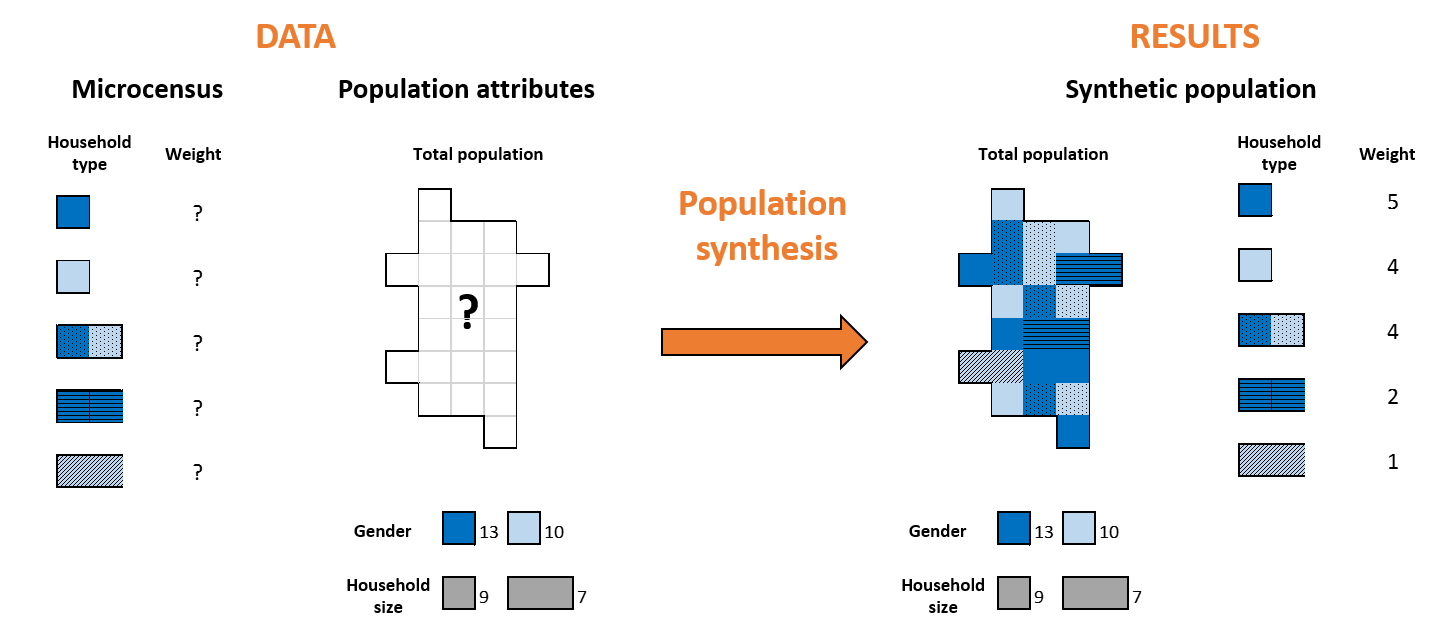
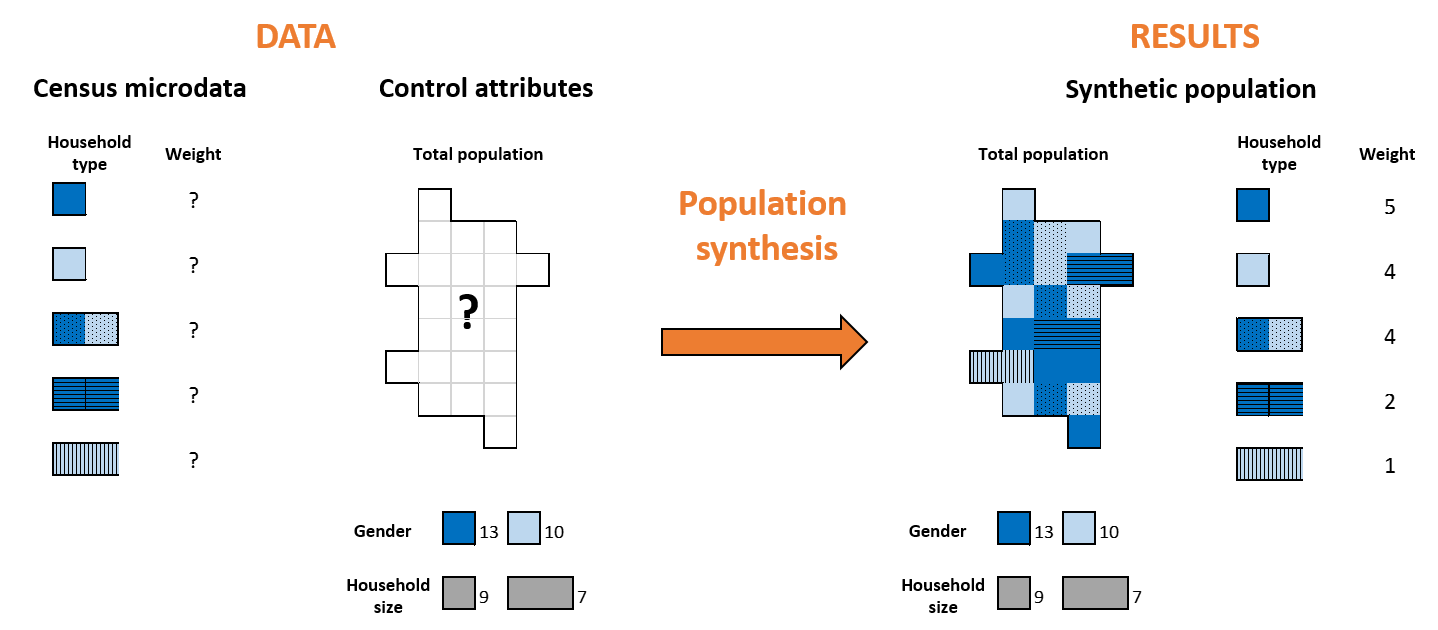
Added generation of synthetic population

diff --git a/synPopDE.html b/synPopDE.html
@@ -65,8 +65,9 @@
 				  <p> <i> A synthetic population generator for the Metropolitan Area of Munich is currently under development. Using census microdata, municipality-level and county-(called Kreis)-level data, a process called Iterative Proportional Updating is used to generate a synthetic population. A detailed description of the approach is currently under development. </i>
                   </p>
                   <p>Synthetic populations are used in transportation modeling  when individual records are not available due to privacy data, lack of resolution or some attributes. Travel behavior of synthesized individuals is  simulated to evaluate, for example, the effect of building a new shopping mall on the transport network.</p>
-                  <p>The objective of population synthesis is to generate a population that matches certain attributes of the actual population based on a sample of households. Attributes can be at the household level, such as household size or number of autos, or at the person level, such as gender, age or employment status. The optimization procedure consists on obtaining how representative is each one of the households inside the population, given a set of attributes' constraints. </p>
+                  <p>The objective of population synthesis is to generate a population that matches certain attributes of the total population based on a sample of households. Control attributes can be at the household level, such as household size or number of autos, or at the person level, such as gender, age or employment status. The optimization procedure consists on obtaining how representative is each one of the households of the sample to the total population, given a set of control attributes that act as constraints. </p>
                   <img src="images/populationSynthesis.png" width="660" height="296" alt=""/>
+                 
 
 <p>Population synthesis has three phases: </p>
                   <ol>
@@ -78,83 +79,108 @@
 				  <h2>Data preparation</h2>
                   
                   <p>In Germany, statistical information of the population is available online at the GENESIS-Online database. Data are aggregated at the municipality level (Gemeinden), county level (Landkreise), state level (Länder) or Nationwide (Bund). They include information on population, educacion, housing and environment, economic sectors, public finances or economic accounts. </p>
-                  <p> For household structures, we can rely on microcensus from Household Travel Surveys or Household Census. In Germany, Household Census contains more detail than Household Travel Surveys on how households are structured. The number of records is a 5% sample of the total population, and due to privacy, they cannot be linked to the exact location of the household. The minimum resolution is statewide. Household Census microdata can be purchased from the State Statistical Office. They include household size, household composition or age, gender and employment status of household members.</p>
+                  <p> For household structures, we can rely on microdata from Household Travel Surveys or Household Census. In Germany, Household Census contains more detail than Household Travel Surveys on how households are structured. The number of records is a 5% sample of the total population, and due to privacy, they can only be linked to the state on which the household is located. Household Census microdata can be purchased from the State Statistical Office. They include household size, household composition or age, gender and employment status of household members.</p>
                   <p> After data are collected, we decide which attributes are going to be matched, or control attributes. Control attributes can be household type or person type. Usual household type attributes are household size, number of autos the household owns, number of workers in the household or household income. Person type attributes refer to the individuals on the household and usually include age, gender, ethnicity or working status.  </p>
                   
                   
                   <img src="images/syntheticPopulation_attributes.png" width="500" height="331" alt=""/>
                   <p>
                   Control attributes must be included on both databases and have transferable categories, which can limit the number of attributes to match. In some cases, total population attributes are not aggregated at the same resolution. Based on the available data, we use 24 control attributes at the municipality level and 5 control attributes at the county level. </p>
-                  <p> For the optimization procedure, we need to generate the frequency matrix. The frequency matrix shows the household type and the frequency of different person types within each household for the sample. The dimension of the matrix is N x M, where N is the number of households in the microrecords and M is the number of control attributes (household and person type). A 0 or 1 is assigned to household types control attributes and the persons in the household that has that attribute are assigned to person types control attributes.</p>
+                  <p> For the optimization procedure, we need to generate the frequency matrix. The frequency matrix shows the household type and the frequency of different person types within each household for the sample. The dimension of the matrix is N x M, where N is the number of households in the microdata and M is the number of control attributes (household and person type). A 0 or 1 is assigned to household types control attributes and the persons in the household that has that attribute are assigned to person types control attributes.</p>
                   
                   <p>&nbsp;</p>                 
                   <h2>Optimization procedure</h2>
                   <p>The synthetic population is generated using Iterative Proportional Updating (IPU). This procedure was developed by Ye et al. (2009) and it was expanded to accomodate controls at multiple geographic resolutions by Konduri et al. (2016).  </p>
 				  <p>The IPU procedure calculates a set of weights of each one of the microdata records in an iterative approach. It is capable of closely matching household-level and person-level marginal distributions at the same time; and it can accommodate control attributes defined at municipality-level or county-level simultaneously. This feature is specially important for our case study, as households by size are only available at the county-level. </p>
-                  <p>The IPU procedure is shown in Figure 1. It consists on adjusting the set of weights for each household of the microrecords to minimize the error between the control distribution and calculated distributions of each attribute, at each municipality. Therefore, the set of weights varies within municipalities. The process converges after a variable number of iterations, usually under 500. </p>
+                  <p>The IPU procedure is shown in Figure 1. It consists on adjusting the set of weights for each household of the microdata to minimize the error between the control distribution and calculated distributions of each attribute, at each municipality. Therefore, the set of weights will vary within municipalities. The process converges after a variable number of iterations, usually under 500. </p>
                   <img src="images/syntheticPopulation_IPUprocedure.png" width="642" height="518" alt=""/>
 <p>Initial set of weights is equal to 1. On the next iterations, weights are updated as: </p>
-                  <img src="images/syntheticPopulation_weights.png" width="175" height="50" alt=""/>
+                  <img src="images/syntheticPopulation_weights.png" width="300" height="50" alt=""/>
 <p>Where: w<sub>i,j,m</sub> is the updated weight of household i at municipality m, w<sub>i,j-1,m</sub> is the previous weigth of household i at municipality m, c<sub>k,m</sub> is the contraint of the control attribute k at municipality m, f<sub>i,k,m</sub> is the frequency of the control attribute k on household i at municipality m. Weights are only updated on the households where the frequency of the control attribute is different than zero.</p>
                 <p>Weights are updated after considering each control attribute. All attributes, regardless they are household or person level, are treated equally. After all control attributes are considered, we calculate the relative difference in absolute value between the constraint and the calculated distributions, for each attribute. </p>
-                <img src="images/syntheticPopulation_errors.png" width="134" height="50" alt=""/>
+                <img src="images/syntheticPopulation_errors.png" width="250" height="50" alt=""/>
                 
 <p>Where: e<sub>k,m</sub> is the error of control attribute k at municipality m,  w<sub>i,j,m</sub> is the updated weight of household i at municipality m, f<sub>i,k,m</sub> is the frequency of the control attribute k on household i at municipality m, c<sub>k,m</sub> is the contraint of the control attribute k at municipality m. </p>
 <p>Municipality level attributes update only the set of weights of the corresponding municipality, while county level attributes update the set of weights of all municipalities that are inside the county.  </p>
 				<p>The goodness of fit of the set of errors is calculated as the average error (deviation measure value). This value is compared to the previous iteration. If the absolute difference of average deviation values between two full iterations satisfies a set of tolerance criteria, the IPU procedure stops updating sample household weights. The default threshold is set equal to 0.01% and can be modified by the user. Additional stopping criteria include the maximum number of iterations (default value equal to 1,500) and average error threshold (default value of 0.0000001).</p>
-                <p>Some modifications has been implemented on the IPU procedure to reduce computational time and memory consumption. Given that the number of zero-value cells of the frequency matrix can be quite large, a collapsed version of the frequency matrix is used for each attribute. This modification minimizes the number of replications to calculate weighted sums and to update the set of weights. Collapsed vectors (or sparse list representations) were previously applied by Pritchard and Miller in 2012; reducing memory requirements to 0.07% for the multizone approach on IPF (iterative proportional fitting).</p>
+                <p>Some modifications has been implemented on the IPU procedure to reduce computational time and memory consumption. Given that the number of zero-value cells of the frequency matrix can be quite large, a collapsed version of the frequency matrix is used for each attribute. This modification minimizes the number of replications to calculate weighted sums and to update the set of weights. Collapsed vectors (or sparse list representations) were previously applied by Pritchard and Miller in 2012; reducing memory requirements to 0.07% for the multizone approach on IPF procedure (iterative proportional fitting).</p>
                 <p>&nbsp;</p>
                 <h2>Generation of the synthetic population</h2>                
-                <p>Households for each municipality are randomly drawn from the sample of microrecords based on the weights of each household at that specific municipality.  Control attributes, that include household characteristics and household individuals' characteristics, are copied from the microdata. </p>
-                <p> The attributes of the population can include also uncontrolled attributes that could not be matched during IPU due to lack of data. One example is household income, which was available at the micro census but not on the aggregated data; or number of autos, that was only available on the aggregated data.</p>
-                <p> Uncontrolled attributes that were available on the microdata are directly copied into the synthetic population. For other uncontrolled attributes, they are assigned to each household using Monte Carlo simulations. Probabilities of each category are modelled based on aggregated values or other micro data. For example, the number of autos is modelled using the Household Travel Survey in Germany (Mobilität in Deutschland), which has less number of records than the Household Census. The model includes household size, number of workers, household income and household location.</p>
-                <p> Once one household and its characteristics is selected for one municipality, the household is allocated at one raster cell within the municipality.</p>
+                
+                <p> To generate the synthetic population, households of the microdata are randomly drawn from the sample based on their weights at each specific municipality. Once a household is selected for the municipality, it is allocated at one raster cell within the municipality. The probability for each raster cell is the ratio between the population and employment on the raster cell and the total population and employment on the municipality. </p>
+                <img src="images/syntheticPopulation_allocation.png" width="650" height="359" alt=""/>
+                <p> <img src="images/syntheticPopulation_attributes_FINAL.png" width="330" height="440" alt="" align="right"/> Attributes of each household can be controlled during the optimization procedure or uncontrolled due to lack of data.                
+                </p>
+                <p>Two examples of uncontrolled attribute are household income, which was available at the microdata but not on the aggregated data; and number of autos, which was only available on the aggregated data.</p>
+                <p>Control attributes are directly copied from the microdata into the synthetic population, as well as uncontrolled attributes that are available on the microdata. Other uncontrolled attributes are assigned to each household using Monte Carlo simulations. </p>
+               <p> Monte Carlo simulations is a technique that randomly draws one category of the variable based on the relative probability of the categories. Probability distributions can be copied from the aggregated values distributions or can be modeled based on microdata. For example, the number of autos is modelled using the Household Travel Survey in Germany (Mobilität in Deutschland). The model for the number of autos includes household size, number of workers, household income and household location.</p>
+                <p> Control and uncontrolled attributes of the synthetic population are summarized on the table.</p>    
+                <p>&nbsp;</p>             
+                
+                <p> Finally, the goodness of fit of the synthetic population is evaluated. Each population synthesis will produce different results, given the randomness on households' selection. Goodness of fit is evaluated for each municipality as the average error of the controlled attributes. </p>
+                <img src="images/syntheticPopulation_goodnessOfFit.png" width="269" height="50" alt=""/>
+                <p>Where: GOF<sub>m</sub> is the goodness of fit at municipality m, K is the number of controlled attributes, c<sub>i,k,m</sub> is the value of the control attribute k of household i at municipality m, c<sub>k,m</sub> is the contraint of the control attribute k at municipality m. </p>
                 </div>
 				<div class="contentright">
-					<h2>Example</h2>
+					<h2>Example of household file</h2>
 					<p><img src="images/syntheticPopulation.png" alt="Example of a list with synthetic households" width="150" height="91" align="center"/></p>
 					<p>A synthetic population represents line by line every household individually.</p>
                     <p>&nbsp;</p>
                     <p>&nbsp;</p>
-                    <p>&nbsp;</p>
-                    <p>&nbsp;</p>
-                    <p>&nbsp;</p>
-                    <p>&nbsp;</p>
-                    <p>&nbsp;</p>
-                    <p>&nbsp;</p>
-                    <p>&nbsp;</p>                    
-                    <p>&nbsp;</p>
-                    <p>&nbsp;</p>
-                    <p>&nbsp;</p>
-                    <p>&nbsp;</p>
-                    <p>&nbsp;</p>
-                    <p>&nbsp;</p>
+                    <h2>Example of population synthesis</h2>
+                    <p>We have a census with microdata from 5 households, composed of one or two persons, who can be male or female. The total population has 13 females and 10 males, and 9 single-person households and 7 two-person households. </p>
+                    <p>Population synthesis calculates how many of each household from the microdata is required to match the gender and household size distribution of the total population. In this case, 5 of household type 1; 4 of household type 2; etc. </p>
+                     <p>&nbsp;</p>             
+                  <p>&nbsp;</p>
                     <p>&nbsp;</p>
                     <p>&nbsp;</p>                                        
                     <p>&nbsp;</p>
-                  <h2>Example</h2>
+                  <h2>Example of frequency matrix</h2>
                   <img src="images/syntheticPopulation_frequencyMatrix.png" width="200" height="544" alt=""/>
-<p>The frequency matrix represents line by line every household individually. We have 24 control attributes at the municipality level and 5 control attributes at the county level.</p>
 
-<p>&nbsp;</p>
+<p>In the example, household 123456 is a single-person household inhabited by one female older than 64 years, unemployed. </p>
+<p>Household 123457 is a two-person household inhabited by one male worker between 29 and 39 years and one female worker between 29 and 39 years.</p>
+
                     <p>&nbsp;</p>
-                    <p>&nbsp;</p>
-                    <h2>References of IPU</h2>
-                    <p>Ye, X.; Konduri, K.; Pendyala, R.; Sana, B.; Waddell, P. (2009).  A Methodology to Match Distributions of Both Household and Person Attributes in the Generation of Synthetic Populations. Presented at 88th Annual Meeting of the Transportation Research Board, Washington, D.C.</p>
-                    <p>&nbsp;</p>
-                    <p> Konduri, K.; You, D.; Garikapati, V.; Pendyala, R. (2016).  Application of an Enhanced Population Synthesis Model that Accommodates Controls at Multiple Geographic Resolutions. Presented at 95th Annual Meeting of the Transportation Research Board, Washington, D.C. (Accepted for publication in Transportation Research Record).</p>
-                    <p>&nbsp;</p>
-                    <p> Pritchard, D.R.; Miller, E.J. (2012). Advances in population: fitting many attributes per agent and fitting to household and person margins simultaneously. Transportation 39, 685-704. DOI: 10.1007/s11116-011-9367-4.
+                    <h2>References of IPU procedure</h2>
+                    <p>Ye, X.; Konduri, K.; Pendyala, R.; Sana, B.; Waddell, P. (2009).  <i>A Methodology to Match Distributions of Both Household and Person Attributes in the Generation of Synthetic Populations </i>. 88th Annual Meeting of the Transportation Research Board, Washington, D.C.</p>
                     
-                    </p>
+                    <p> Konduri, K.; You, D.; Garikapati, V.; Pendyala, R. (2016). <i> Application of an Enhanced Population Synthesis Model that Accommodates Controls at Multiple Geographic Resolutions</i>. 95th Annual Meeting of the Transportation Research Board, Washington, D.C. (Accepted for publication in Transportation Research Record, DOI: 10.3141/2563-08).</p>
+                    
+                    <p> Pritchard, D.R.; Miller, E.J. (2012).<i> Advances in population: fitting many attributes per agent and fitting to household and person margins simultaneously</i>. Transportation 39, 685-704. DOI: 10.1007/s11116-011-9367-4.</p>
+                    <p>&nbsp;</p>
+                    
+                    <p>&nbsp;</p>
+                    <p>&nbsp;</p>
+                    <p>&nbsp;</p>                    
+                  <h2>Example of collapsed matrix</h2>
+                    <img src="images/syntheticPopulation_collapsed matrix.png" width="150" height="404" alt=""/>
+<p>The frequency matrix is substituted by three matrices. </p>
+<p>The length matrix represents the number of cells different than zero for each attribute. The location matrix indicates the household ID that on which the value is different than zero. Finally, the value matrix indicates the value of the cell. </p>
+<p>This approach saves computational time and memory for large frequency matrices with majority of zero-value cells. </p>
+                    <p>&nbsp;</p>
+                    <p>&nbsp;</p>
+                    <p>&nbsp;</p>
+                    <p>&nbsp;</p>
                     <p>&nbsp;</p>
                     <p>&nbsp;</p>                    
                     <p>&nbsp;</p>
                     <p>&nbsp;</p>
                     <p>&nbsp;</p>
-
-
-				</div>
+                    <p>&nbsp;</p>
+                    <p>&nbsp;</p>
+                    <p>&nbsp;</p>                    
+                    <p>&nbsp;</p>
+                    <p>&nbsp;</p>
+                    <p>&nbsp;</p>
+                    <p>&nbsp;</p>
+                    <p>&nbsp;</p>
+                    <h2>Raster cells</h2>
+					<p> For transportation modeling and land use analyses, spatial resolution must be higher than municipalities. Municipalities are usually divided in raster cells, where population and land use distributions are homogeneous.</p>
+                    <p> We developed a <a href="https://github.com/joem34/munich_zoning_project">gradual zoning algorithm</a> to rasterize the Munich metropolitan area according to population and employment data. Employment was calculated based on land use. </p>
+                    <p>Maximum resolution of raster cells is 100x100 m. Raster cells with lower resolution indicate that population and employment are more homogeneous at that area. </p>
+                    <p>Boundaries of the raster cells respect the boundaries between municipalities.</p>
+			  </div>
 				<div style="clear:both;"></div>
 			</div>
 		</div>
